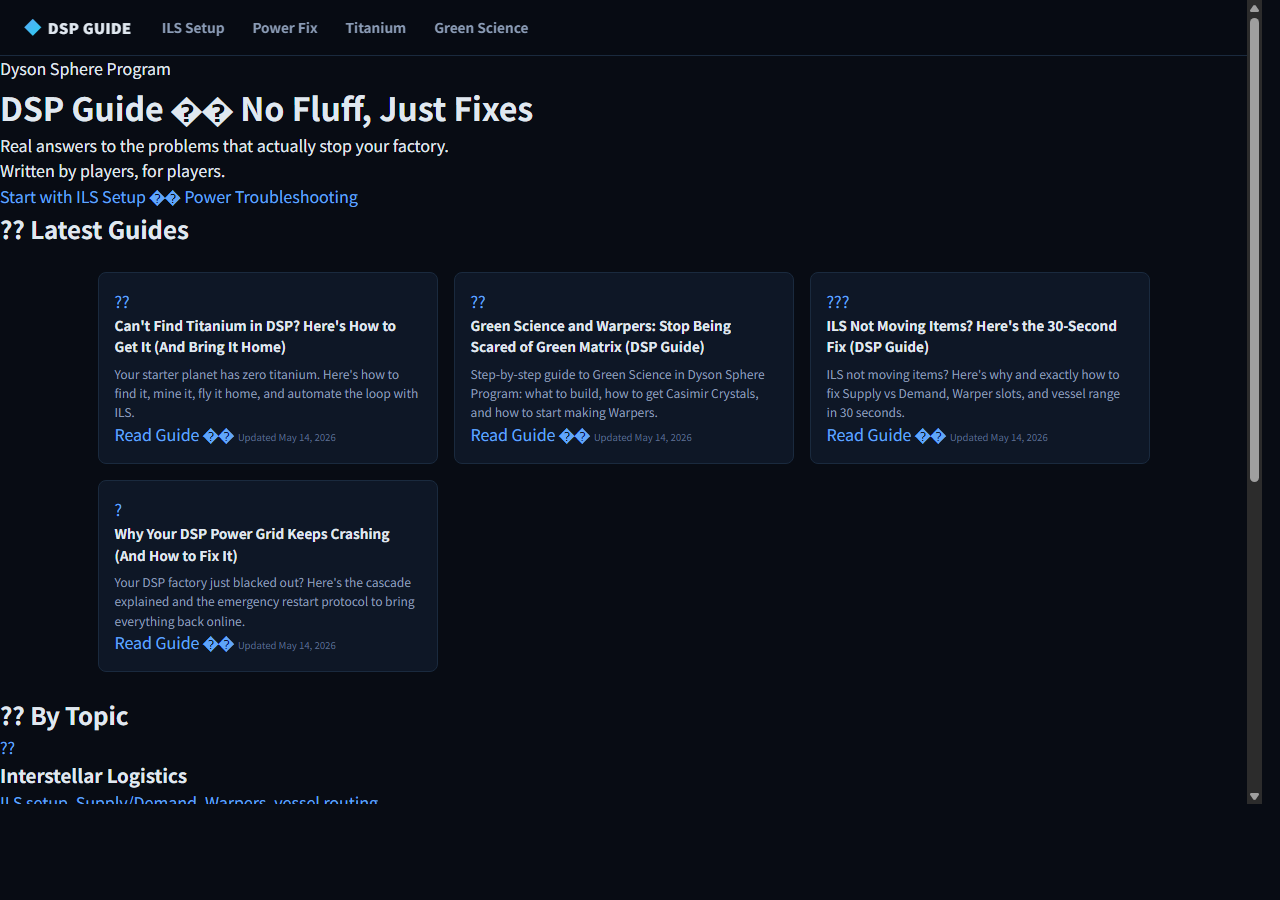
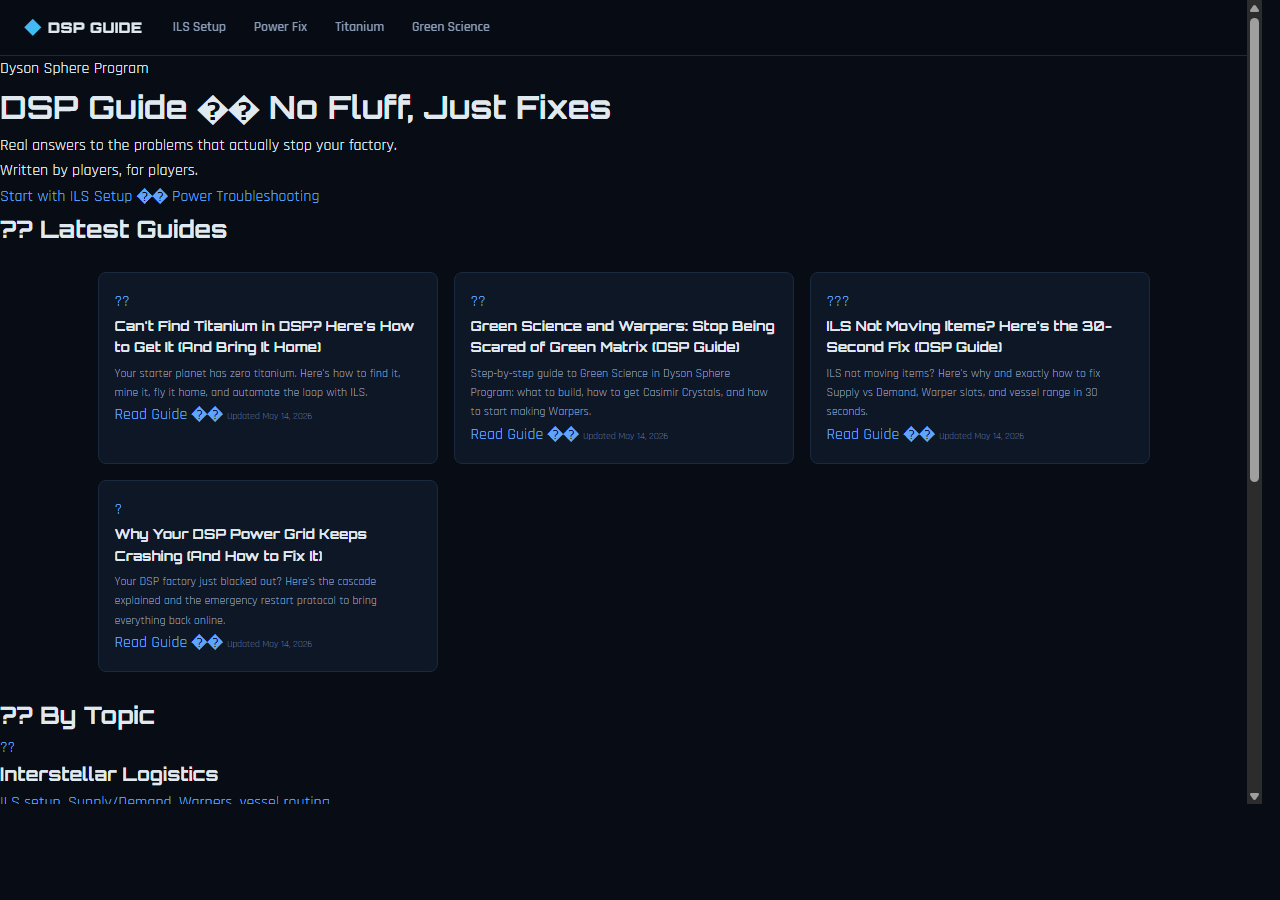
fix: decode HTML entities + rebuild

diff --git a/docs/green-science-warper-guide/index.html b/docs/green-science-warper-guide/index.html
@@ -12,7 +12,7 @@
 <body>
 <div class="site-header">
   <a href="/dsp-guide/" class="site-logo">
-    <span class="logo-icon">&#9670;</span> DSP Guide
+    <span class="logo-icon">◆</span> DSP Guide
   </a>
   <div class="nav-links">
     <a href="/dsp-guide/ils-setup-guide/" class="nav-btn">ILS Setup</a>
@@ -49,12 +49,12 @@ Scale your existing Processor line. Build a Casimir plant. That's most of the wo
 </div>
 <hr>
 <h2 id="the-three-things-you-need">The Three Things You Need</h2>
-<p><strong>Green Matrix = Processors &#43; Casimir Crystals &#43; EM Turbines</strong></p>
+<p><strong>Green Matrix = Processors + Casimir Crystals + EM Turbines</strong></p>
 <div class="game-row">
 <div class="game-slot"><span class="game-qty">1x</span><img src="/dsp-guide/images/dsp-icons/processor.png" class="game-img"><span class="game-name">Processor</span></div>
-<span class="game-plus">&#43;</span>
+<span class="game-plus">+</span>
 <div class="game-slot"><span class="game-qty">1x</span><img src="/dsp-guide/images/dsp-icons/casimir-crystal.png" class="game-img"><span class="game-name">Casimir</span></div>
-<span class="game-plus">&#43;</span>
+<span class="game-plus">+</span>
 <div class="game-slot"><span class="game-qty">1x</span><img src="/dsp-guide/images/dsp-icons/mag-turbine.png" class="game-img"><span class="game-name">EM Turbine</span></div>
 <span class="game-plus">→</span>
 <div class="game-slot result"><span class="game-qty">1x</span><img src="/dsp-guide/images/dsp-icons/g-matrix.png" class="game-img"><span class="game-name">Green Matrix</span></div>
@@ -62,10 +62,10 @@ Scale your existing Processor line. Build a Casimir plant. That's most of the wo
 <hr>
 <h3 id="1-processors-you-already-make-these">1. Processors (You Already Make These)</h3>
 <p>If you're at Yellow Science, you already have a processor line. You just need more. A green matrix build running 3 labs/min needs ~4 processors per second. That's about <strong>20-25 assemblers</strong> making processors.</p>
-<p><strong>Don't build a new factory.</strong> Just expand your existing one. Slap down more assemblers on your current circuit board &#43; silicon line.</p>
+<p><strong>Don't build a new factory.</strong> Just expand your existing one. Slap down more assemblers on your current circuit board + silicon line.</p>
 <div class="game-row">
 <div class="game-slot"><span class="game-qty">1x</span><img src="/dsp-guide/images/dsp-icons/circuit-board.png" class="game-img"><span class="game-name">Circuit Brd</span></div>
-<span class="game-plus">&#43;</span>
+<span class="game-plus">+</span>
 <div class="game-slot"><span class="game-qty">1x</span><img src="/dsp-guide/images/dsp-icons/silicium-high-purity.png" class="game-img"><span class="game-name">Silicon</span></div>
 <span class="game-plus">→</span>
 <div class="game-slot result"><span class="game-qty">1x</span><img src="/dsp-guide/images/dsp-icons/processor.png" class="game-img"><span class="game-name">Processor</span></div>
@@ -75,9 +75,9 @@ Scale your existing Processor line. Build a Casimir plant. That's most of the wo
 <p>Casimir Crystals need three ingredients:</p>
 <div class="game-row">
 <div class="game-slot"><span class="game-qty">1x</span><img src="/dsp-guide/images/dsp-icons/hydrogen.png" class="game-img"><span class="game-name">H₂</span></div>
-<span class="game-plus">&#43;</span>
+<span class="game-plus">+</span>
 <div class="game-slot"><span class="game-qty">1x</span><img src="/dsp-guide/images/dsp-icons/graphene.png" class="game-img"><span class="game-name">Graphene</span></div>
-<span class="game-plus">&#43;</span>
+<span class="game-plus">+</span>
 <div class="game-slot"><span class="game-qty">2x</span><img src="/dsp-guide/images/dsp-icons/titanium-plate.png" class="game-img"><span class="game-name">Ti Plate</span></div>
 <span class="game-plus">→</span>
 <div class="game-slot result"><span class="game-qty">1x</span><img src="/dsp-guide/images/dsp-icons/casimir-crystal.png" class="game-img"><span class="game-name">Casimir</span></div>
@@ -91,10 +91,10 @@ Scale your existing Processor line. Build a Casimir plant. That's most of the wo
 </div>
 <hr>
 <h3 id="3-em-turbines-easy">3. EM Turbines (Easy)</h3>
-<p>These are just electric motors &#43; magnetic coils:</p>
+<p>These are just electric motors + magnetic coils:</p>
 <div class="game-row">
 <div class="game-slot"><span class="game-qty">1x</span><img src="/dsp-guide/images/dsp-icons/electric-motor.png" class="game-img"><span class="game-name">Motor</span></div>
-<span class="game-plus">&#43;</span>
+<span class="game-plus">+</span>
 <div class="game-slot"><span class="game-qty">1x</span><img src="/dsp-guide/images/dsp-icons/magnetism-wire.png" class="game-img"><span class="game-name">M. Coil</span></div>
 <span class="game-plus">→</span>
 <div class="game-slot result"><span class="game-qty">1x</span><img src="/dsp-guide/images/dsp-icons/mag-turbine.png" class="game-img"><span class="game-name">EM Turbine</span></div>
@@ -104,13 +104,13 @@ Scale your existing Processor line. Build a Casimir plant. That's most of the wo
 <strong>Why are you scared of green?</strong> Reddit users ask this all the time. The truth: it's not harder than yellow. Yellow asks you to handle:
 <div class="game-row">
 <div class="game-slot"><span class="game-qty">1x</span><img src="/dsp-guide/images/dsp-icons/refined-oil.png" class="game-img"><span class="game-name">Oil</span></div>
-<span class="game-plus">&#43;</span>
+<span class="game-plus">+</span>
 <div class="game-slot"><span class="game-qty">1x</span><img src="/dsp-guide/images/dsp-icons/hydrogen.png" class="game-img"><span class="game-name">H₂</span></div>
-<span class="game-plus">&#43;</span>
+<span class="game-plus">+</span>
 <div class="game-slot"><span class="game-qty">1x</span><img src="/dsp-guide/images/dsp-icons/graphite.png" class="game-img"><span class="game-name">Graphite</span></div>
-<span class="game-plus">&#43;</span>
+<span class="game-plus">+</span>
 <div class="game-slot"><span class="game-qty">1x</span><img src="/dsp-guide/images/dsp-icons/titanium-plate.png" class="game-img"><span class="game-name">Ti</span></div>
-</div> <span class="game-plus">&#43;</span> <div class="game-slot"><span class="game-qty">1x</span><img src="/dsp-guide/images/dsp-icons/hydrogen.png" class="game-img"><span class="game-name">H₂</span></div> <span class="game-plus">&#43;</span> <div class="game-slot"><span class="game-qty">1x</span><img src="/dsp-guide/images/dsp-icons/graphite.png" class="game-img"><span class="game-name">Graphite</span></div> <span class="game-plus">&#43;</span> <div class="game-slot"><span class="game-qty">1x</span><img src="/dsp-guide/images/dsp-icons/titanium-plate.png" class="game-img"><span class="game-name">Ti</span></div></div>
+</div> <span class="game-plus">+</span> <div class="game-slot"><span class="game-qty">1x</span><img src="/dsp-guide/images/dsp-icons/hydrogen.png" class="game-img"><span class="game-name">H₂</span></div> <span class="game-plus">+</span> <div class="game-slot"><span class="game-qty">1x</span><img src="/dsp-guide/images/dsp-icons/graphite.png" class="game-img"><span class="game-name">Graphite</span></div> <span class="game-plus">+</span> <div class="game-slot"><span class="game-qty">1x</span><img src="/dsp-guide/images/dsp-icons/titanium-plate.png" class="game-img"><span class="game-name">Ti</span></div></div>
 <p>Green is just &quot;more of the same but with processors.&quot; You've got this.</p>
 </div>
 <hr>
@@ -124,7 +124,6 @@ Scale your existing Processor line. Build a Casimir plant. That's most of the wo
 <div class="pro-tip">
 <strong> One gotcha:</strong> ILS ships won't pick up warpers unless you set a slot to Supply for warpers. They don't auto-grab them from inventory. You have to explicitly tell the ILS: "hey, this slot has warpers, take them."
 </div>
-<hr>
 <h2 id="quick-ratio-1-green-matrixsecond">Quick Ratio: 1 Green Matrix/Second</h2>
 <div class="box-wrap">
 <div class="box-title">1/SEC GREEN MATRIX — PRODUCTION LINE</div>
@@ -133,21 +132,21 @@ Scale your existing Processor line. Build a Casimir plant. That's most of the wo
 <div class="game-card">
 <div class="game-card-title">Step 1: <span style="color:#60a5fa;">Processors</span></div>
 <div class="game-row">
-<div class="game-slot"><span class="game-qty">2x</span><img src="/dsp-guide/images/dsp-icons/circuit-board.png" class="game-img"><span class="game-name">Circuit Brd</span></div> <span class="game-plus">&#43;</span> <div class="game-slot"><span class="game-qty">1x</span><img src="/dsp-guide/images/dsp-icons/silicium-high-purity.png" class="game-img"><span class="game-name">Silicon</span></div> <span class="game-plus">→</span> <div class="game-slot result"><span class="game-qty">1x</span><img src="/dsp-guide/images/dsp-icons/processor.png" class="game-img"><span class="game-name">Processor</span></div>
+<div class="game-slot"><span class="game-qty">2x</span><img src="/dsp-guide/images/dsp-icons/circuit-board.png" class="game-img"><span class="game-name">Circuit Brd</span></div> <span class="game-plus">+</span> <div class="game-slot"><span class="game-qty">1x</span><img src="/dsp-guide/images/dsp-icons/silicium-high-purity.png" class="game-img"><span class="game-name">Silicon</span></div> <span class="game-plus">→</span> <div class="game-slot result"><span class="game-qty">1x</span><img src="/dsp-guide/images/dsp-icons/processor.png" class="game-img"><span class="game-name">Processor</span></div>
 </div>
 <div class="game-card-stat">18 assemblers · 4/sec</div>
 </div>
 <div class="game-card">
 <div class="game-card-title">Step 2: <span style="color:#34d399;">Casimir Crystals</span></div>
 <div class="game-row">
-<div class="game-slot"><span class="game-qty">1x</span><img src="/dsp-guide/images/dsp-icons/hydrogen.png" class="game-img"><span class="game-name">H₂</span></div> <span class="game-plus">&#43;</span> <div class="game-slot"><span class="game-qty">1x</span><img src="/dsp-guide/images/dsp-icons/graphene.png" class="game-img"><span class="game-name">Graphene</span></div> <span class="game-plus">&#43;</span> <div class="game-slot"><span class="game-qty">2x</span><img src="/dsp-guide/images/dsp-icons/titanium-plate.png" class="game-img"><span class="game-name">Ti Plate</span></div> <span class="game-plus">→</span> <div class="game-slot result"><span class="game-qty">1x</span><img src="/dsp-guide/images/dsp-icons/casimir-crystal.png" class="game-img"><span class="game-name">Casimir</span></div>
+<div class="game-slot"><span class="game-qty">1x</span><img src="/dsp-guide/images/dsp-icons/hydrogen.png" class="game-img"><span class="game-name">H₂</span></div> <span class="game-plus">+</span> <div class="game-slot"><span class="game-qty">1x</span><img src="/dsp-guide/images/dsp-icons/graphene.png" class="game-img"><span class="game-name">Graphene</span></div> <span class="game-plus">+</span> <div class="game-slot"><span class="game-qty">2x</span><img src="/dsp-guide/images/dsp-icons/titanium-plate.png" class="game-img"><span class="game-name">Ti Plate</span></div> <span class="game-plus">→</span> <div class="game-slot result"><span class="game-qty">1x</span><img src="/dsp-guide/images/dsp-icons/casimir-crystal.png" class="game-img"><span class="game-name">Casimir</span></div>
 </div>
 <div class="game-card-stat">20 collectors · 10 chem · 12 assm</div>
 </div>
 <div class="game-card">
-<div class="game-card-title">Step 3: <span style="color:#a78bfa;">EM Turbines</span> &#43; <span style="color:#fbbf24;">Final</span></div>
+<div class="game-card-title">Step 3: <span style="color:#a78bfa;">EM Turbines</span> + <span style="color:#fbbf24;">Final</span></div>
 <div class="game-row">
-<div class="game-slot"><span class="game-qty">1x</span><img src="/dsp-guide/images/dsp-icons/electric-motor.png" class="game-img"><span class="game-name">Motor</span></div> <span class="game-plus">&#43;</span> <div class="game-slot"><span class="game-qty">1x</span><img src="/dsp-guide/images/dsp-icons/magnetism-wire.png" class="game-img"><span class="game-name">M. Coil</span></div> <span class="game-plus">→</span> <div class="game-slot"><span class="game-qty">1x</span><img src="/dsp-guide/images/dsp-icons/mag-turbine.png" class="game-img"><span class="game-name">Turbine</span></div>
+<div class="game-slot"><span class="game-qty">1x</span><img src="/dsp-guide/images/dsp-icons/electric-motor.png" class="game-img"><span class="game-name">Motor</span></div> <span class="game-plus">+</span> <div class="game-slot"><span class="game-qty">1x</span><img src="/dsp-guide/images/dsp-icons/magnetism-wire.png" class="game-img"><span class="game-name">M. Coil</span></div> <span class="game-plus">→</span> <div class="game-slot"><span class="game-qty">1x</span><img src="/dsp-guide/images/dsp-icons/mag-turbine.png" class="game-img"><span class="game-name">Turbine</span></div>
 </div>
 <div class="game-card-stat">10 motors · 8 coils · 6 turbines · 3 labs</div>
 </div>
@@ -162,13 +161,13 @@ Scale your existing Processor line. Build a Casimir plant. That's most of the wo
 <div>
 <div class="checklist-group-title">INGREDIENTS / SEC</div>
 <div class="game-row">
-<div class="game-slot"><span class="game-qty">4.5x</span><img src="/dsp-guide/images/dsp-icons/processor.png" class="game-img"><span class="game-name">Processor</span></div> <span class="game-plus">&#43;</span> <div class="game-slot"><span class="game-qty">3.5x</span><img src="/dsp-guide/images/dsp-icons/casimir-crystal.png" class="game-img"><span class="game-name">Casimir</span></div> <span class="game-plus">&#43;</span> <div class="game-slot"><span class="game-qty">2.8x</span><img src="/dsp-guide/images/dsp-icons/mag-turbine.png" class="game-img"><span class="game-name">EM Turbine</span></div> <span class="game-plus">→</span> <div class="game-slot result"><span class="game-qty">1x</span><img src="/dsp-guide/images/dsp-icons/g-matrix.png" class="game-img"><span class="game-name">Green Matrix</span></div>
+<div class="game-slot"><span class="game-qty">4.5x</span><img src="/dsp-guide/images/dsp-icons/processor.png" class="game-img"><span class="game-name">Processor</span></div> <span class="game-plus">+</span> <div class="game-slot"><span class="game-qty">3.5x</span><img src="/dsp-guide/images/dsp-icons/casimir-crystal.png" class="game-img"><span class="game-name">Casimir</span></div> <span class="game-plus">+</span> <div class="game-slot"><span class="game-qty">2.8x</span><img src="/dsp-guide/images/dsp-icons/mag-turbine.png" class="game-img"><span class="game-name">EM Turbine</span></div> <span class="game-plus">→</span> <div class="game-slot result"><span class="game-qty">1x</span><img src="/dsp-guide/images/dsp-icons/g-matrix.png" class="game-img"><span class="game-name">Green Matrix</span></div>
 </div>
 <div style="color:#5a6a8a;font-size:.6rem;margin-top:8px;font-family:'JetBrains Mono',monospace;">~52 Mk.I assemblers total</div>
 </div>
 <div>
 <div class="checklist-group-title">POWER &amp; LOGISTICS</div>
-<div class="check-item"><span class="check-icon">✓</span>~8 MW total (solar ring &#43; 4 wind)</div>
+<div class="check-item"><span class="check-icon">✓</span>~8 MW total (solar ring + 4 wind)</div>
 <div class="check-item"><span class="check-icon">✓</span>ILS set to Supply / Demand</div>
 <div class="check-item"><span class="check-icon">✓</span>Warpers added to ILS slot (manual)</div>
 <div class="check-item"><span class="check-icon">✓</span>Mk.II belts or higher on main bus</div>

diff --git a/docs/titanium-transport-guide/index.html b/docs/titanium-transport-guide/index.html
@@ -3,7 +3,7 @@
 <head>
   <meta charset="utf-8">
   <meta name="viewport" content="width=device-width, initial-scale=1">
-  <title>Can&#39;t Find Titanium in DSP? Here&#39;s How to Get It (And Bring It Home) | Dyson Sphere Program Guide</title>
+  <title>Can't Find Titanium in DSP? Here's How to Get It (And Bring It Home) | Dyson Sphere Program Guide</title>
   <link rel="preconnect" href="https://fonts.googleapis.com">
   <link rel="preconnect" href="https://fonts.gstatic.com" crossorigin>
   <link href="https://fonts.googleapis.com/css2?family=JetBrains+Mono:wght@400;600;700&family=Orbitron:wght@500;700;900&family=Rajdhani:wght@400;500;600;700&display=swap" rel="stylesheet">
@@ -12,7 +12,7 @@
 <body>
 <div class="site-header">
   <a href="/dsp-guide/" class="site-logo">
-    <span class="logo-icon">&#9670;</span> DSP Guide
+    <span class="logo-icon">◆</span> DSP Guide
   </a>
   <div class="nav-links">
     <a href="/dsp-guide/ils-setup-guide/" class="nav-btn">ILS Setup</a>
@@ -29,7 +29,7 @@
     <div class="article-hero-bg" style="background-image:url('/dsp-guide/images/hero-bg.jpg')"></div>
     <div class="article-hero-fade"></div>
     <div class="article-hero-text">
-      <h1>Can&#39;t Find Titanium in DSP? Here&#39;s How to Get It (And Bring It Home)</h1>
+      <h1>Can't Find Titanium in DSP? Here's How to Get It (And Bring It Home)</h1>
       <div class="article-meta">
         <span class="meta-date">Updated: May 14, 2026</span>
       </div>
@@ -71,7 +71,7 @@
 <ul>
 <li>Each inventory slot holds 100 titanium. With full cargo upgrade ≈ 500-800 per trip</li>
 <li>While mining, throw down a small power setup (solar or wind) — don't drag fuel rods</li>
-<li>Once you have ILS &#43; Warpers, the manual trips stop forever</li>
+<li>Once you have ILS + Warpers, the manual trips stop forever</li>
 </ul>
 <div class="callout callout-warning">
   <strong>⚠️ ILS won't work without warpers.</strong><br>
@@ -104,7 +104,7 @@
       </tr>
       <tr>
           <td>Manual trip</td>
-          <td>Fly with coal &#43; wood, mine blue rocks, fly back</td>
+          <td>Fly with coal + wood, mine blue rocks, fly back</td>
       </tr>
       <tr>
           <td>Carry more</td>
@@ -112,7 +112,7 @@
       </tr>
       <tr>
           <td>Automate it</td>
-          <td>Build ILS on both planets &#43; supply &#43; demand</td>
+          <td>Build ILS on both planets + supply + demand</td>
       </tr>
       <tr>
           <td>Need warpers?</td>

diff --git a/docs/ils-setup-guide/index.html b/docs/ils-setup-guide/index.html
@@ -3,7 +3,7 @@
 <head>
   <meta charset="utf-8">
   <meta name="viewport" content="width=device-width, initial-scale=1">
-  <title>ILS Not Moving Items? Here&#39;s the 30-Second Fix (DSP Guide) | Dyson Sphere Program Guide</title>
+  <title>ILS Not Moving Items? Here's the 30-Second Fix (DSP Guide) | Dyson Sphere Program Guide</title>
   <link rel="preconnect" href="https://fonts.googleapis.com">
   <link rel="preconnect" href="https://fonts.gstatic.com" crossorigin>
   <link href="https://fonts.googleapis.com/css2?family=JetBrains+Mono:wght@400;600;700&family=Orbitron:wght@500;700;900&family=Rajdhani:wght@400;500;600;700&display=swap" rel="stylesheet">
@@ -12,7 +12,7 @@
 <body>
 <div class="site-header">
   <a href="/dsp-guide/" class="site-logo">
-    <span class="logo-icon">&#9670;</span> DSP Guide
+    <span class="logo-icon">◆</span> DSP Guide
   </a>
   <div class="nav-links">
     <a href="/dsp-guide/ils-setup-guide/" class="nav-btn">ILS Setup</a>
@@ -29,7 +29,7 @@
     <div class="article-hero-bg" style="background-image:url('/dsp-guide/images/hero-bg.jpg')"></div>
     <div class="article-hero-fade"></div>
     <div class="article-hero-text">
-      <h1>ILS Not Moving Items? Here&#39;s the 30-Second Fix (DSP Guide)</h1>
+      <h1>ILS Not Moving Items? Here's the 30-Second Fix (DSP Guide)</h1>
       <div class="article-meta">
         <span class="meta-date">Updated: May 14, 2026</span>
       </div>
@@ -91,7 +91,7 @@
       <tr>
           <td>2</td>
           <td>Warpers loaded?</td>
-          <td>50&#43; in a Supply slot</td>
+          <td>50+ in a Supply slot</td>
       </tr>
       <tr>
           <td>3</td>

diff --git a/docs/power-fix-guide/index.html b/docs/power-fix-guide/index.html
@@ -12,7 +12,7 @@
 <body>
 <div class="site-header">
   <a href="/dsp-guide/" class="site-logo">
-    <span class="logo-icon">&#9670;</span> DSP Guide
+    <span class="logo-icon">◆</span> DSP Guide
   </a>
   <div class="nav-links">
     <a href="/dsp-guide/ils-setup-guide/" class="nav-btn">ILS Setup</a>
@@ -84,7 +84,7 @@
 <div class="section-head"><h2> The Mid-Game Answer: Fusion</h2></div>
 
 <p>By the time you hit Yellow Science, you'll need more power than solar can provide. Switch to <strong>Deuterium Fuel Rods</strong> and fusion plants. One fusion power plant = ~40 MW with a steady fuel line.</p>
-<p>Don't wait until you're drowning to make this switch. The moment you research Fusion, build one plant &#43; a production line for fuel rods. Your solar belt will still help, but fusion becomes your backbone.</p>
+<p>Don't wait until you're drowning to make this switch. The moment you research Fusion, build one plant + a production line for fuel rods. Your solar belt will still help, but fusion becomes your backbone.</p>
 <div class="section-head"><h2> Quick Reference</h2></div>
 
 <table>
@@ -116,7 +116,7 @@
 <div class="cta-box">
    <strong>Can't find titanium to make yellow science?</strong> → <a href="/en/titanium-transport-guide/">Stuck on titanium? Guide here →</a>
 <h2 id="bottom-line">Bottom Line</h2>
-<p>The cascade is terrifying the first time it happens. After that, you'll see it coming from a mile away. The second your sorters slow down and your power bar is 95%&#43; full: stop expanding and build solar. Don't push your luck.</p>
+<p>The cascade is terrifying the first time it happens. After that, you'll see it coming from a mile away. The second your sorters slow down and your power bar is 95%+ full: stop expanding and build solar. Don't push your luck.</p>
     </main>
   </div>
 </div>

diff --git a/docs/categories/index.html b/docs/categories/index.html
@@ -12,7 +12,7 @@
 <body>
 <div class="site-header">
   <a href="/dsp-guide/" class="site-logo">
-    <span class="logo-icon">&#9670;</span> DSP Guide
+    <span class="logo-icon">◆</span> DSP Guide
   </a>
   <div class="nav-links">
     <a href="/dsp-guide/ils-setup-guide/" class="nav-btn">ILS Setup</a>

diff --git a/docs/tags/index.html b/docs/tags/index.html
@@ -12,7 +12,7 @@
 <body>
 <div class="site-header">
   <a href="/dsp-guide/" class="site-logo">
-    <span class="logo-icon">&#9670;</span> DSP Guide
+    <span class="logo-icon">◆</span> DSP Guide
   </a>
   <div class="nav-links">
     <a href="/dsp-guide/ils-setup-guide/" class="nav-btn">ILS Setup</a>

diff --git a/content/green-science-warper-guide.md b/content/green-science-warper-guide.md
@@ -128,7 +128,7 @@ Now every ILS in your network can grab warpers and start shipping across the gal
 <strong> One gotcha:</strong> ILS ships won't pick up warpers unless you set a slot to Supply for warpers. They don't auto-grab them from inventory. You have to explicitly tell the ILS: "hey, this slot has warpers, take them."
 </div>
 
----
+
 
 ## Quick Ratio: 1 Green Matrix/Second
 